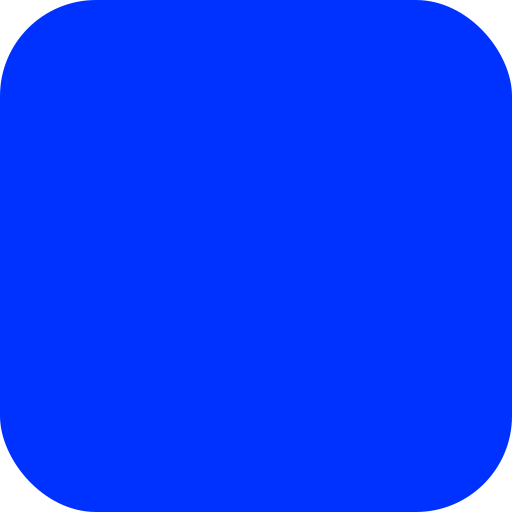
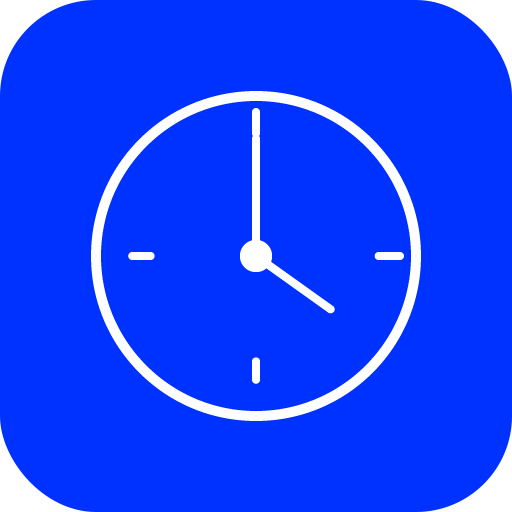
Add files via upload

Changed region(s): [[0.1562, 0.1562, 0.8438, 0.8438], [0.4688, 0.6875, 0.5312, 0.75], [0.25, 0.4688, 0.3125, 0.5312]]

diff --git a/index.html b/index.html
@@ -300,17 +300,6 @@
 <div id="cp-root">
   <div class="cp-topbar">
     <div class="cp-brandmark">
-      <svg xmlns="http://www.w3.org/2000/svg" viewBox="0 0 80 80">
-        <circle cx="40" cy="40" r="36" fill="#fff" fill-opacity="0.15"/>
-        <circle cx="40" cy="40" r="30" fill="none" stroke="#fff" stroke-width="3"/>
-        <line x1="40" y1="40" x2="40" y2="18" stroke="#fff" stroke-width="3.5" stroke-linecap="round"/>
-        <line x1="40" y1="40" x2="54" y2="50" stroke="#fff" stroke-width="3" stroke-linecap="round"/>
-        <circle cx="40" cy="40" r="3" fill="#fff"/>
-        <line x1="40" y1="13" x2="40" y2="17" stroke="#fff" stroke-width="2.5" stroke-linecap="round"/>
-        <line x1="40" y1="63" x2="40" y2="67" stroke="#fff" stroke-width="2.5" stroke-linecap="round"/>
-        <line x1="13" y1="40" x2="17" y2="40" stroke="#fff" stroke-width="2.5" stroke-linecap="round"/>
-        <line x1="63" y1="40" x2="67" y2="40" stroke="#fff" stroke-width="2.5" stroke-linecap="round"/>
-      </svg>
       <div>
         <div class="cp-title">Meu Ponto Certo</div>
       </div>
